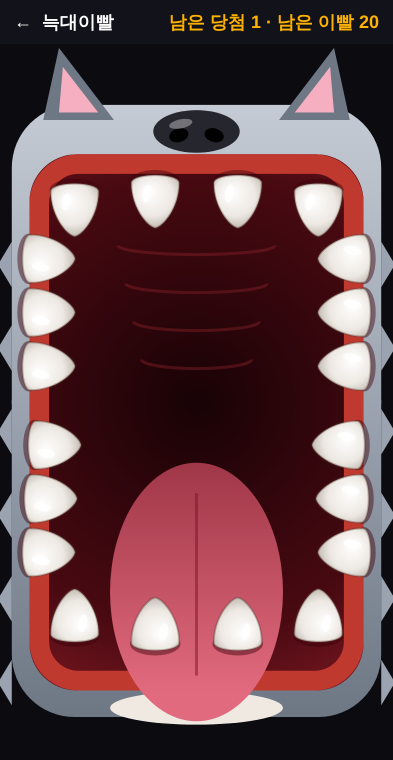
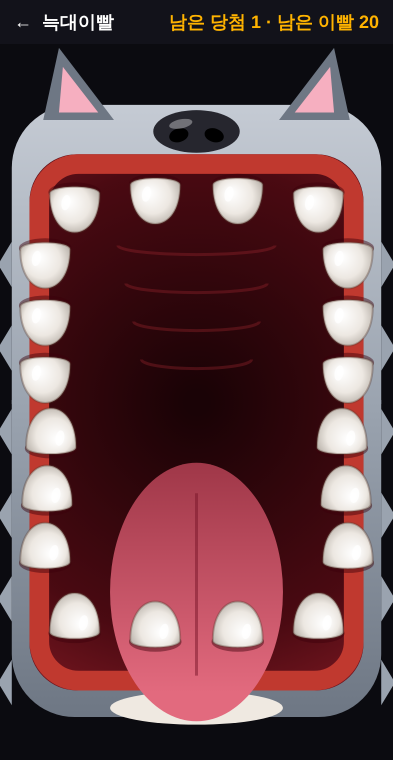
시안: 늑대이빨 이빨을 모두 세로로 (보내준 그림처럼), 간격 넓힘
Claude-Session: https://claude.ai/code/session_013mN1tc9XfbmBn9GeSidaFd

diff --git a/docs/samples/teeth/teeth.js b/docs/samples/teeth/teeth.js
@@ -8,20 +8,20 @@ export function layout(W, H) {
   const L = 0.03 * W, R = W - L, T = Y(0.085), B = Y(0.94), mid = Y(0.5);
   const teeth = [];
   for (const fx of [0.19, 0.395, 0.605, 0.81]) teeth.push([fx * W, Y(0.215) + (fx < 0.3 || fx > 0.7 ? Y(0.012) - y0 : 0), Math.PI / 2, true]);
-  for (const s of [-1, 1]) for (const fy of [0.3, 0.375, 0.45]) teeth.push([s < 0 ? 0.115 * W : 0.885 * W, Y(fy), s < 0 ? 0 : Math.PI, true]);
-  for (const s of [-1, 1]) for (const [fy, fx] of [[0.56, 0.13], [0.635, 0.12], [0.71, 0.115]]) teeth.push([s < 0 ? fx * W : (1 - fx) * W, Y(fy), s < 0 ? 0 : Math.PI, false]);
+  for (const s of [-1, 1]) for (const fy of [0.305, 0.385, 0.465]) teeth.push([s < 0 ? 0.115 * W : 0.885 * W, Y(fy), Math.PI / 2, true]);
+  for (const s of [-1, 1]) for (const [fy, fx] of [[0.545, 0.13], [0.625, 0.12], [0.705, 0.115]]) teeth.push([s < 0 ? fx * W : (1 - fx) * W, Y(fy), -Math.PI / 2, false]);
   for (const fx of [0.19, 0.395, 0.605, 0.81]) teeth.push([fx * W, Y(0.815) - (fx < 0.3 || fx > 0.7 ? Y(0.012) - y0 : 0), -Math.PI / 2, false]);
   return { L, R, T, B, mid, teeth };
 }
 function tooth(c, x, y, dir, s, pressed) {
   c.save(); c.translate(x, y); c.rotate(dir - Math.PI / 2); // 끝이 +y 쪽
-  const w = 24 * s, h = 30 * s;
+  const w = 25 * s, h = 26 * s;
   // 잇몸 그림자
   c.beginPath(); c.ellipse(0, -h * 0.55, w * 1.05, h * 0.38, 0, 0, 7); c.fillStyle = 'rgba(60,0,10,.45)'; c.fill();
   if (pressed) { c.scale(0.86, 0.6); c.translate(0, -h * 0.35); }
   const g = c.createRadialGradient(-w * 0.3, -h * 0.2, 2, 0, 0, h * 1.1);
   g.addColorStop(0, pressed ? '#cfc8c0' : '#FFFFFF'); g.addColorStop(0.6, pressed ? '#a9a29a' : '#EDE8E2'); g.addColorStop(1, pressed ? '#8a837c' : '#B9B2AA');
-  c.beginPath(); c.moveTo(-w, -h * 0.5); c.bezierCurveTo(-w, h * 0.3, -w * 0.35, h * 0.95, 0, h); c.bezierCurveTo(w * 0.35, h * 0.95, w, h * 0.3, w, -h * 0.5);
+  c.beginPath(); c.moveTo(-w, -h * 0.5); c.bezierCurveTo(-w, h * 0.45, -w * 0.55, h, 0, h); c.bezierCurveTo(w * 0.55, h, w, h * 0.45, w, -h * 0.5);
   c.bezierCurveTo(w, -h * 0.85, -w, -h * 0.85, -w, -h * 0.5); c.closePath(); c.fillStyle = g; c.fill();
   c.lineWidth = 2; c.strokeStyle = 'rgba(90,60,50,.35)'; c.stroke();
   if (!pressed) { c.beginPath(); c.ellipse(-w * 0.35, -h * 0.15, w * 0.18, h * 0.3, 0.2, 0, 7); c.fillStyle = 'rgba(255,255,255,.8)'; c.fill(); }
@@ -70,7 +70,7 @@ export class Teeth {
     const pressed = new Set(this.presses.filter(([tt]) => tt <= t).map(([, i]) => i));
     const winP = this.presses.find(([, i]) => i === this.win), bt = winP ? t - winP[0] : -1;
     // 무는 동작: 0.15초 뒤 확 닫힘 → 0.9초 물고 있다가 → 천천히 벌림
-    let close = 0; if (bt > 0.12) { const u = bt - 0.12; close = u < 0.12 ? ease(u / 0.12) : u < 1.2 ? 1 : Math.max(0.55, 1 - (u - 1.2) * 0.8); }
+    let close = 0; if (bt > 0.12) { const u = bt - 0.12; close = u < 0.12 ? ease(u / 0.12) : u < 1.2 ? 1 : Math.max(0, 1 - (u - 1.2) / 0.6); }
     const gap = 0.1 * H * close;
     const shake = bt > 0.24 && bt < 0.7 ? Math.sin(bt * 70) * 4 : 0;
     c.fillStyle = '#0B0B10'; c.fillRect(0, 0, W, H);

diff --git a/docs/BACKLOG.md b/docs/BACKLOG.md
@@ -213,6 +213,6 @@
 ### 🐺 늑대이빨: 화면 가득 벌린 늑대 입 + 큰 이빨 (2026-10-27 메모, 시안 `docs/samples/teeth/`)
 - 피드백: 네일한 사람은 이빨이 작아서 누르기 힘듦 → 악어 이빨 게임처럼 **화면 가득 벌린 입(위에서 본 모양)**, 이빨을 크고 넓게
 - 회색 늑대 (귀 · 까만 코 · 복슬 볼털), 빨간 잇몸 · 입천장 주름 · 분홍 혀
-- 이빨 20개: 위 4 · 위턱 양옆 3+3 · 아래턱 양옆 3+3 · 아래 4
+- 이빨 20개: 위 4 · 위턱 양옆 3+3 · 아래턱 양옆 3+3 · 아래 4 — **모두 세로 방향** (위턱 이빨은 아래로, 아래턱 이빨은 위로, 옆 이빨도 가로로 눕히지 않음), 동글동글한 달걀 모양
 - 누른 이빨은 쏙 들어가며 회색, 당첨이면 위·아래 턱이 콱 닫히고 빨간 번쩍 + 흔들림 + "앙!"
-- 다듬을 것: 다시 벌리는 장면이 중간에서 멈춤
+- 물고 나면 다시 입을 끝까지 벌림
